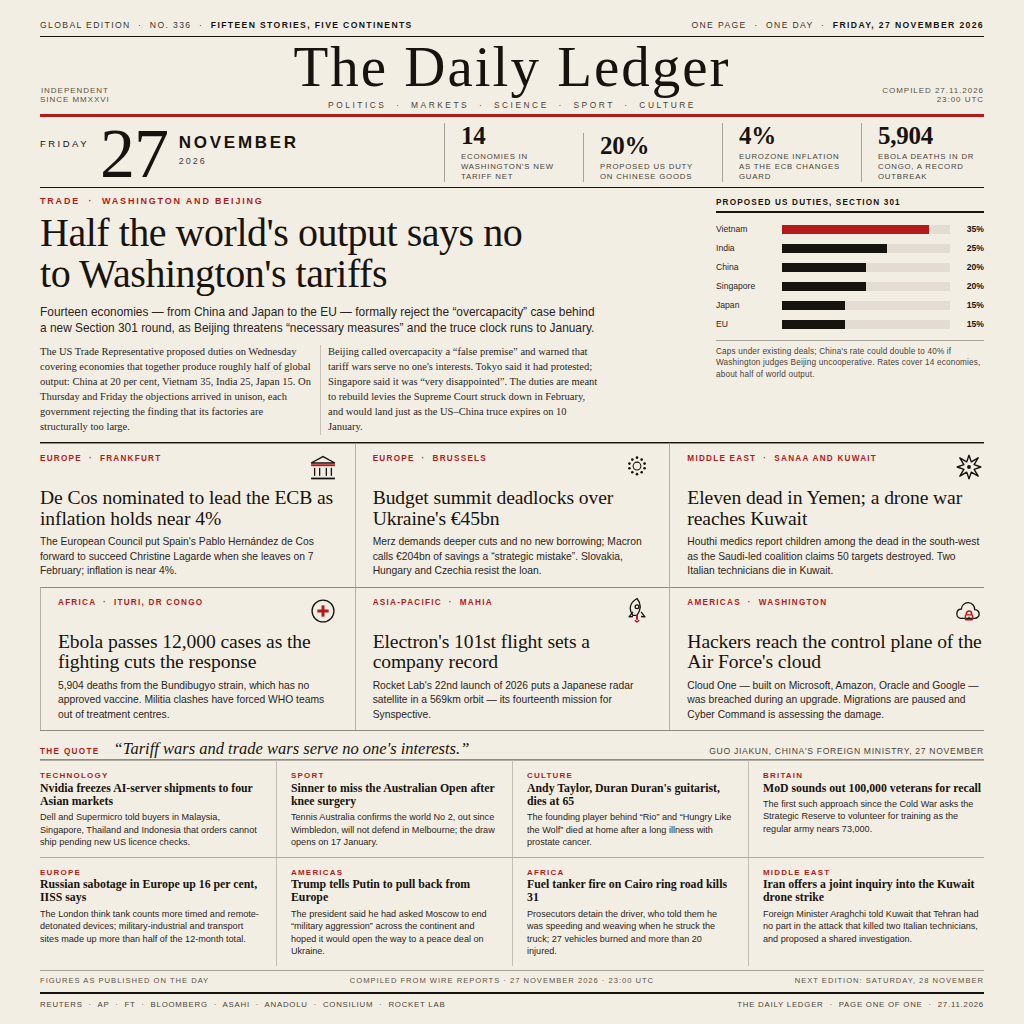
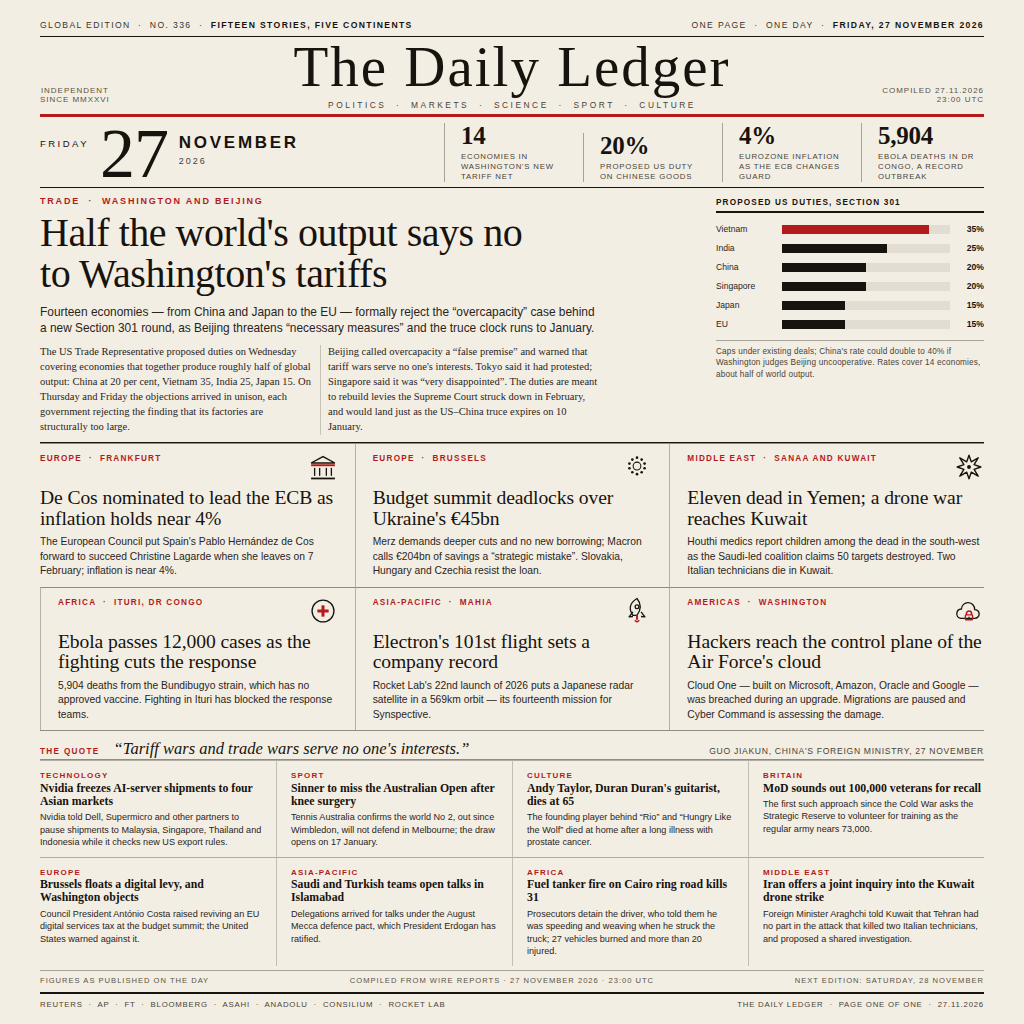
Refine briefs and deks; fix date-band spacing and colophon

diff --git a/poster.html b/poster.html
@@ -250,8 +250,8 @@
       </svg></div>
     </div>
     <h3>Ebola passes 12,000 cases as the fighting cuts the response</h3>
-    <p>5,904 deaths from the Bundibugyo strain, which has no approved vaccine. Militia clashes
-      have forced WHO teams out of treatment centres.</p>
+    <p>5,904 deaths from the Bundibugyo strain, which has no approved vaccine. Fighting in
+      Ituri has blocked the response teams.</p>
   </div>
 
   <div class="cell">
@@ -298,8 +298,8 @@
   <div class="brief">
     <span class="tag">Technology</span>
     <b>Nvidia freezes AI-server shipments to four Asian markets</b>
-    Dell and Supermicro told buyers in Malaysia, Singapore, Thailand and Indonesia that
-    orders cannot ship pending new US licence checks.
+    Nvidia told Dell, Supermicro and other partners to pause shipments to Malaysia,
+    Singapore, Thailand and Indonesia while it checks new US export rules.
   </div>
   <div class="brief">
     <span class="tag">Sport</span>
@@ -322,15 +322,15 @@
 
   <div class="brief">
     <span class="tag">Europe</span>
-    <b>Russian sabotage in Europe up 16 per cent, IISS says</b>
-    The London think tank counts more timed and remote-detonated devices; military-industrial
-    and transport sites made up more than half of the 12-month total.
+    <b>Brussels floats a digital levy, and Washington objects</b>
+    Council President António Costa raised reviving an EU digital services tax at the
+    budget summit; the United States warned against it.
   </div>
   <div class="brief">
-    <span class="tag">Americas</span>
-    <b>Trump tells Putin to pull back from Europe</b>
-    The president said he had asked Moscow to end “military aggression” across the continent
-    and hoped it would open the way to a peace deal on Ukraine.
+    <span class="tag">Asia-Pacific</span>
+    <b>Saudi and Turkish teams open talks in Islamabad</b>
+    Delegations arrived for talks under the August Mecca defence pact, which President
+    Erdogan has ratified.
   </div>
   <div class="brief">
     <span class="tag">Africa</span>

diff --git a/README.md b/README.md
@@ -35,12 +35,12 @@ clock runs to 10 January.
 
 **Briefs** — Nvidia freezes AI-server shipments to four Asian markets · Sinner to miss the
 Australian Open after knee surgery · Andy Taylor, Duran Duran's guitarist, dies at 65 ·
-MoD sounds out 100,000 veterans for recall · Russian sabotage in Europe up 16 per cent, IISS
-says · Trump tells Putin to pull back from Europe · Fuel tanker fire on Cairo ring road kills
-31 · Iran offers a joint inquiry into the Kuwait drone strike
+MoD sounds out 100,000 veterans for recall · Brussels floats a digital levy and Washington
+objects · Saudi and Turkish teams open talks in Islamabad · Fuel tanker fire on Cairo ring
+road kills 31 · Iran offers a joint inquiry into the Kuwait drone strike
 
-Five continents, eight domains (trade, economy, conflict, health, science, cyber, sport,
-culture). Sources and one-line facts are in [`RESEARCH.md`](RESEARCH.md).
+Five continents, nine domains (trade, economy, conflict, health, science, cyber, defence,
+sport, culture). Sources and one-line facts are in [`RESEARCH.md`](RESEARCH.md).
 
 ## Run
 
